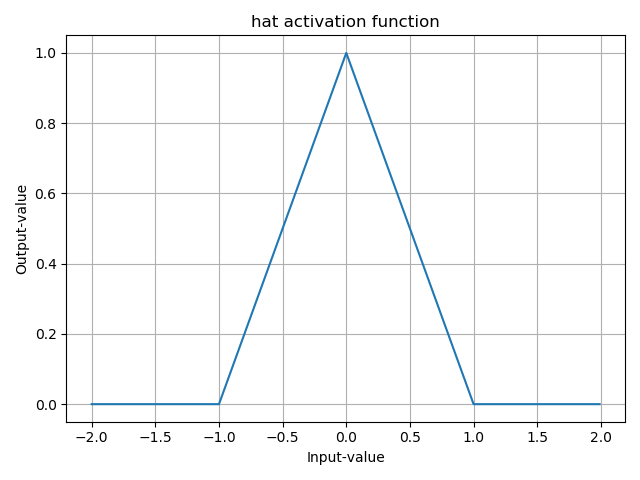
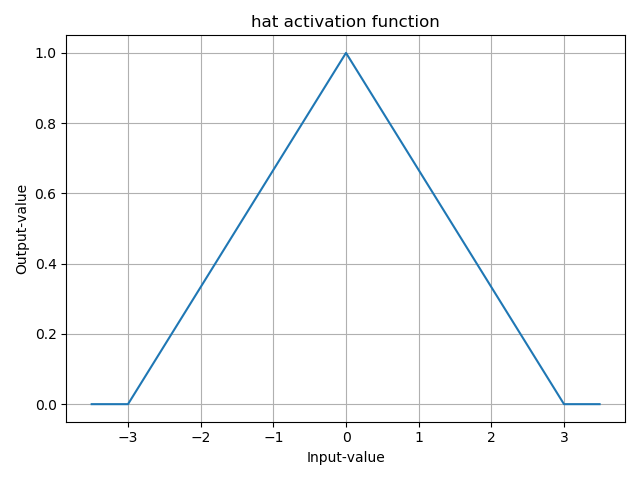
Updated the activation functions

diff --git a/run_distance_only.py b/run_distance_only.py
@@ -44,17 +44,17 @@ def main(gru,
     config.genome.compatibility_disjoint_conn = 1.5
     config.genome.compatibility_disjoint_node = 2.
     config.genome.compatibility_weight = 1.
-    config.genome.gru_mutate_power = .1
+    config.genome.gru_mutate_power = .05
     config.genome.gru_mutate_rate = .2
     config.genome.gru_node_prob = .6
     config.genome.initial_conn = D_FULL_DIRECT
-    config.genome.weight_mutate_power = .2
+    config.genome.weight_mutate_power = .1
     config.genome.weight_mutate_rate = .4
     
     config.population.parent_selection = .2
     config.population.pop_size = 512  # Large enough of a population
     config.population.min_specie_size = 32  # Enough room for improvement within the specie
-    config.population.compatibility_thr = 4.0  # Single node in difference would be enough (+has other connections)
+    config.population.compatibility_thr = 3.0  # Single node in difference would be enough (+has other connections)
     config.population.specie_elitism = 1  # Only prevent the specie carrying the elite from stagnating
     config.population.specie_stagnation = 30  # Relative great since improvement comes slow
     config.update()
@@ -91,11 +91,6 @@ def main(gru,
                 debug=False,
         )
         
-        # Create an overview of the training process
-        training_overview(
-                population=pop,
-        )
-        
         # Trace the most fit genome
         trace_most_fit(
                 population=pop,
@@ -108,6 +103,11 @@ def main(gru,
         visualize_genome(
                 population=pop,
                 genome=pop.best_genome,
+        )
+        
+        # Create an overview of the training process
+        training_overview(
+                population=pop,
         )
     except Exception as e:
         pop.log(traceback.format_exc(), print_result=False)

diff --git a/population/utils/network_util/activations.py b/population/utils/network_util/activations.py
@@ -10,11 +10,11 @@ from utils.dictionary import D_CLAMPED_ABS, D_CLAMPED_LINEAR, D_COS, D_EXP, D_EX
 
 
 def clamped_abs_activation(x):
-    return min(1.0, torch.abs(x))
+    return min(1.0, torch.abs(x) / 3)
 
 
 def clamped_linear_activation(x):
-    return max(-1.0, min(1.0, x))
+    return max(-1.0, min(1.0, x / 3))
 
 
 def cos_activation(x):
@@ -22,7 +22,7 @@ def cos_activation(x):
 
 
 def exponential_activation(x):
-    return 1 - 1 / torch.exp(torch.abs(x))
+    return 1 - 1 / (2 * torch.exp(torch.abs(3 * x)))
 
 
 def exponential_abs_activation(x):
@@ -30,15 +30,15 @@ def exponential_abs_activation(x):
 
 
 def gauss_activation(x):
-    return torch.exp(-2.0 * x ** 2)
+    return torch.exp(-x ** 2)
 
 
-def hat_activation(z):
-    return max(0.0, 1 - torch.abs(z))
+def hat_activation(x):
+    return max(0.0, 1 - torch.abs(x / 3))
 
 
 def sigmoid_activation(x):
-    return torch.sigmoid(3 * x)
+    return torch.sigmoid(2 * x)
 
 
 def sin_activation(x):
@@ -46,7 +46,7 @@ def sin_activation(x):
 
 
 def tanh_activation(x):
-    return torch.tanh(1.5 * x)
+    return torch.tanh(x)
 
 
 str_to_activation = {
@@ -57,7 +57,7 @@ str_to_activation = {
     D_EXP_ABS:        exponential_abs_activation,
     D_GAUSS:          gauss_activation,
     D_HAT:            hat_activation,
-    D_SIN:            sin_activation,
     D_SIGMOID:        sigmoid_activation,
+    D_SIN:            sin_activation,
     D_TANH:           tanh_activation,
 }

diff --git a/population/utils/visualizing/specie_visualizer.py b/population/utils/visualizing/specie_visualizer.py
@@ -31,14 +31,14 @@ def main(pop: Population, func, window: int = 5, show: bool = True):
     for specie_id, specie in pop.species_hist.items():
         # Fetch specie-data
         history = sorted(specie.items(), key=lambda x: x[0])
-        if len(history) < 5: continue
+        if len(history) < window: continue
         generations, elite_list = zip(*history)
         
         # Update max_gen
         if generations[-1] > max_gen: max_gen = generations[-1]
         
         # Average the elite-fitness
-        elite_fitness = [sum([e.fitness for e in e_list]) / len(e_list) for e_list in elite_list]
+        elite_fitness = [sum([e.fitness for e in e_list if e.fitness]) / len(e_list) for e_list in elite_list]
         assert len(elite_fitness) == len(generations)
         
         # Plot the specie

diff --git a/run_population.py b/run_population.py
@@ -75,11 +75,6 @@ def main(fitness,
                 debug=False,
         )
         
-        # Create an overview of the training process
-        training_overview(
-                population=pop,
-        )
-        
         # Evaluate the trained population
         blueprint(
                 population=pop,
@@ -104,6 +99,9 @@ def main(fitness,
         visualize_genome(
                 population=pop,
                 genome=pop.best_genome,
+        )
+        training_overview(
+                population=pop,
         )
     except Exception as e:
         pop.log(traceback.format_exc(), print_result=False)

diff --git a/population/utils/visualizing/activation_visualizer.py b/population/utils/visualizing/activation_visualizer.py
@@ -15,7 +15,7 @@ def visualize_function(f, name: str, save: bool = True):
     """Visualize the given function."""
     x = []
     y = []
-    for i in range(-200, 200):
+    for i in range(-350, 350):
         x.append(i / 100)
         y.append(f(torch.tensor(i / 100, dtype=torch.float64)))
     

diff --git a/README.md b/README.md
@@ -18,6 +18,7 @@ Update a GRU's weights based on its current value, the value fed into the GRU an
 
 ### Urgent
 
+* Constraint the node-output to be within -1..1, let weights vary between -3..3
 * Take the elite (same-maze problem) and evaluate its mutations, similar in performance or radically different?
     Not so good, apparently...
 * Split excess gene to excess node and excess connections (node should have a larger weight)
